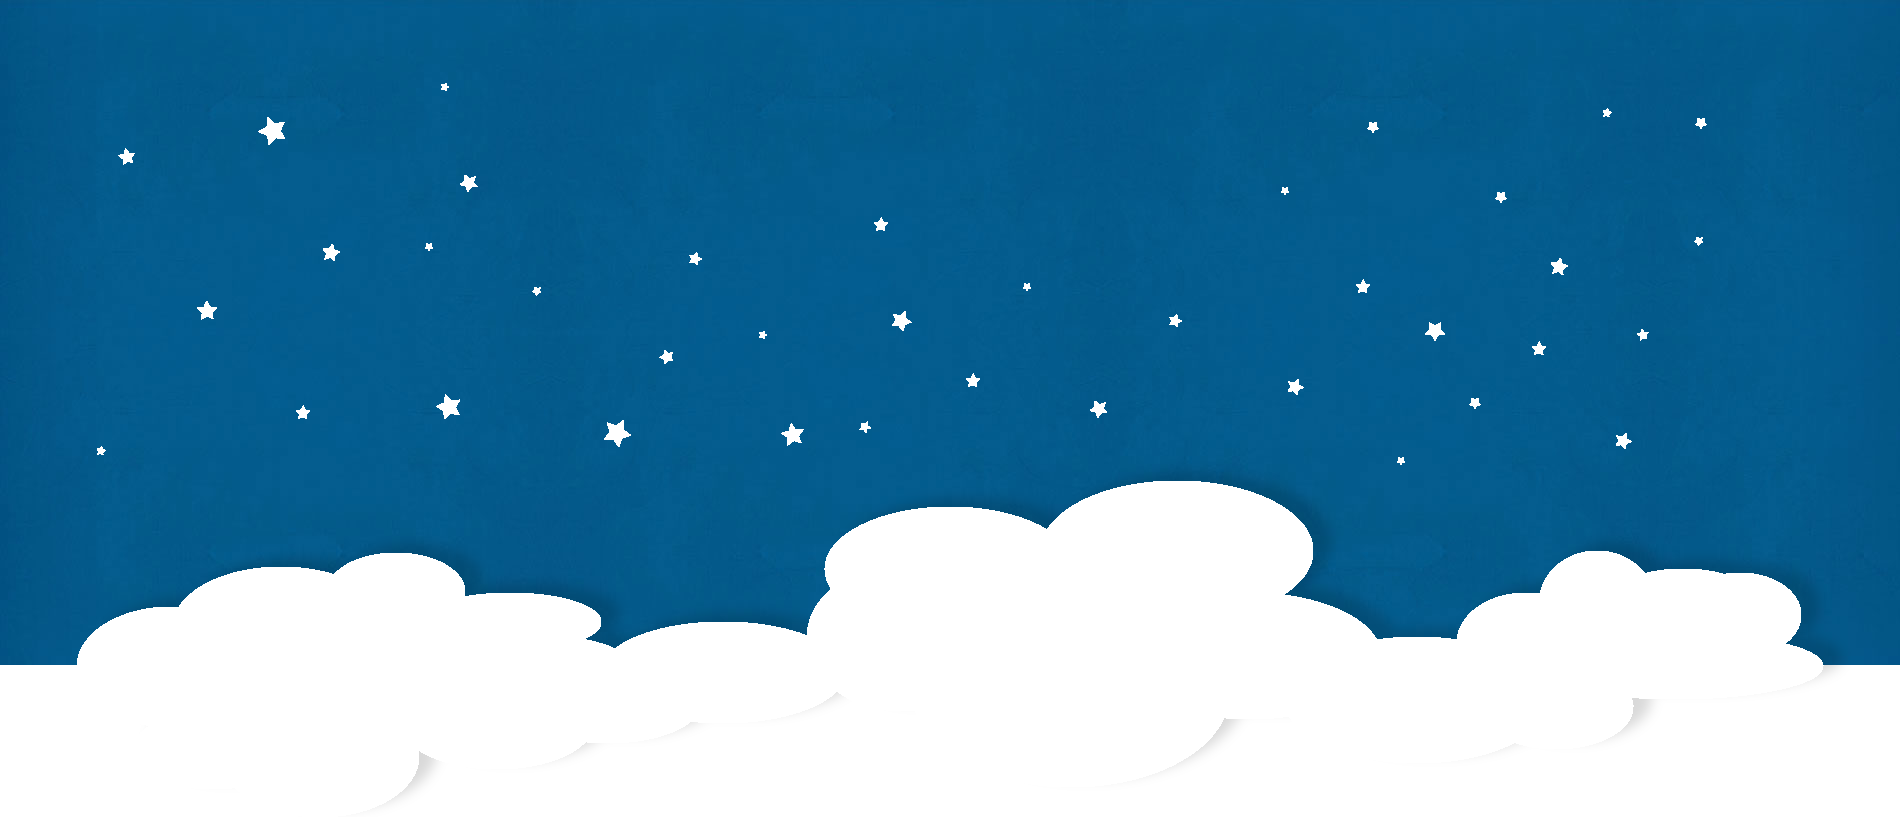
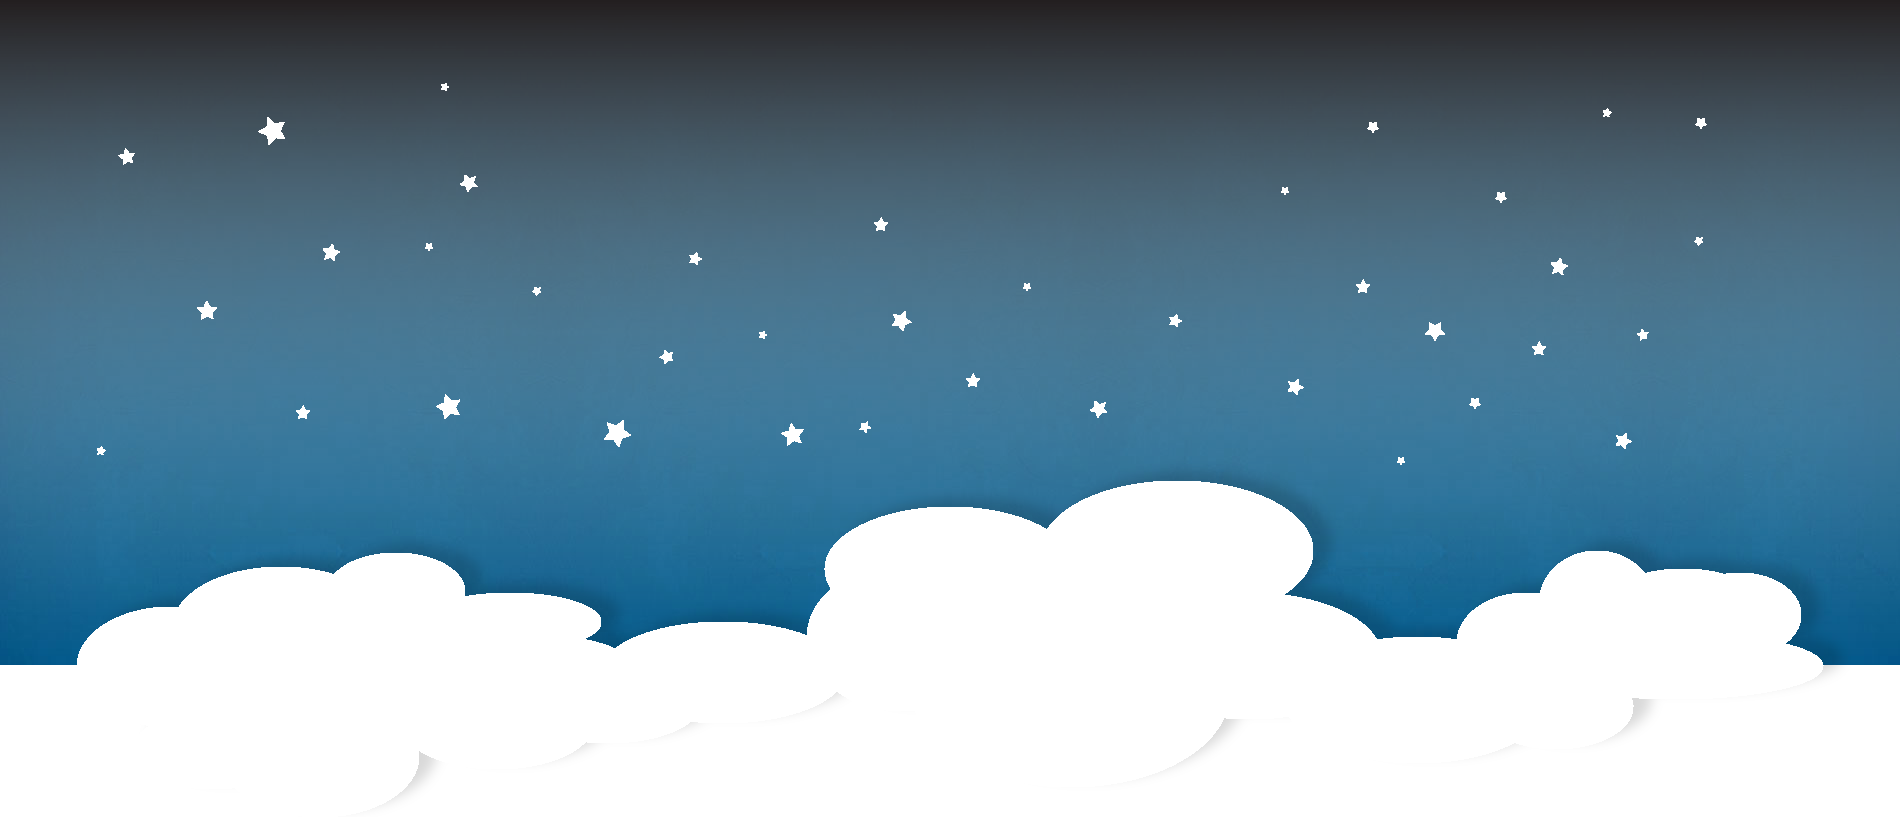
fixed background

diff --git a/app/assets/stylesheets/application.css b/app/assets/stylesheets/application.css
@@ -8,7 +8,7 @@
 
 
 body { 
-	background: url(/assets/cloudystars.png) top center no-repeat,
+	background: url(/assets/mainbg.png) top center no-repeat,
 	url(/assets/lightbg.png);
 }
 
